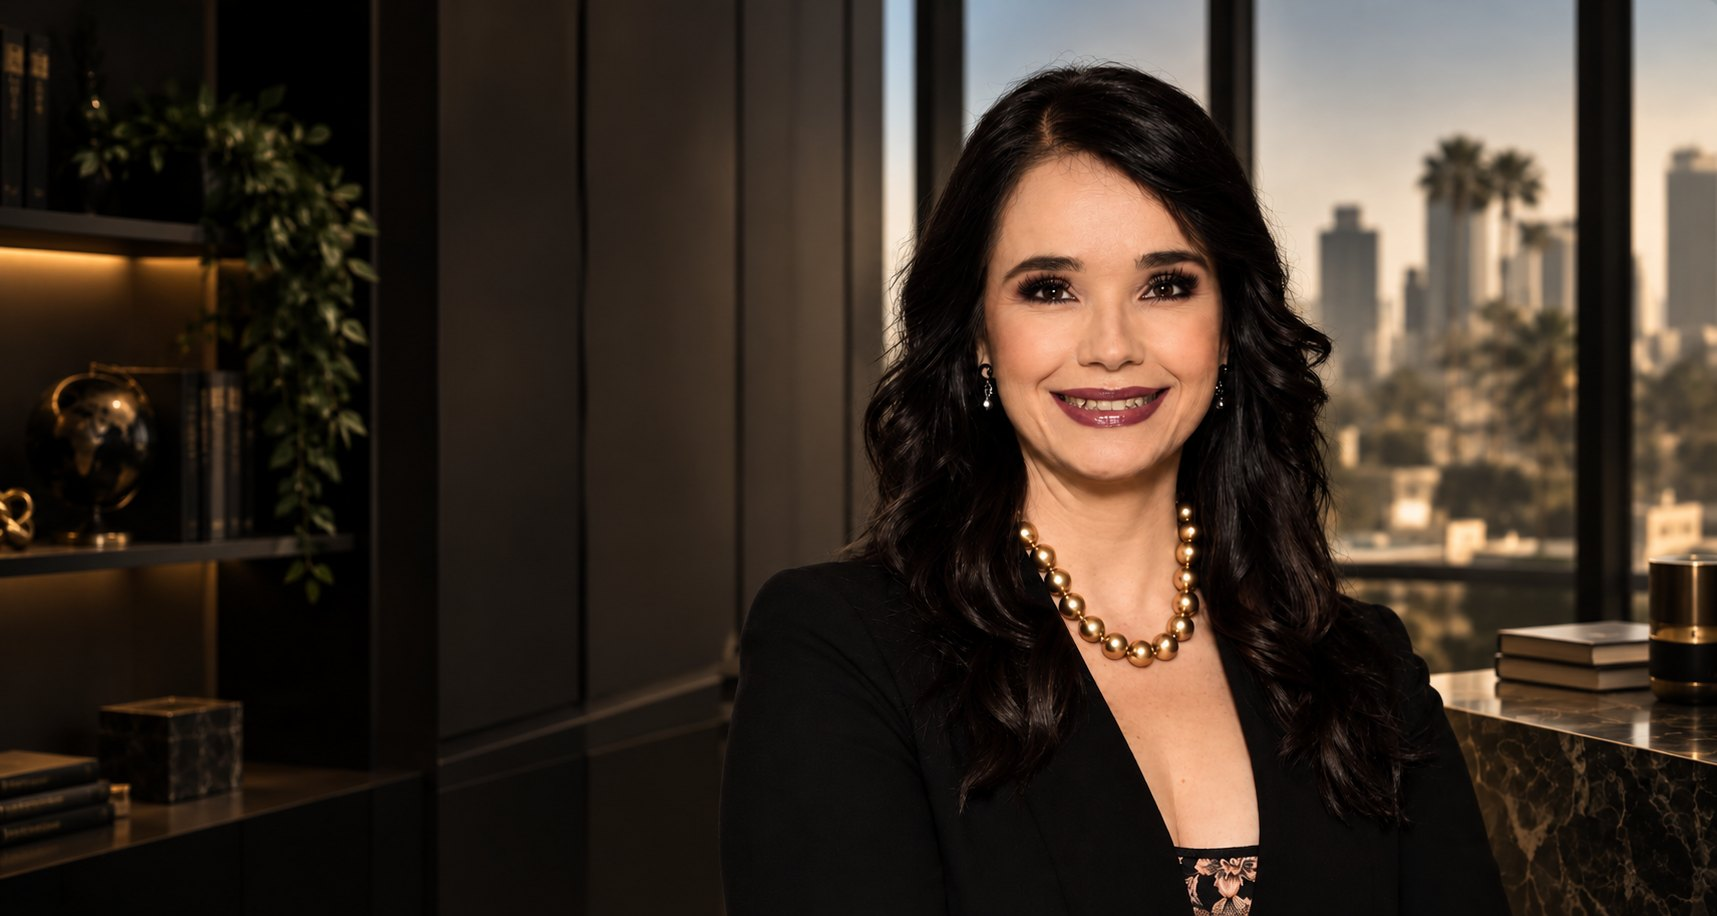
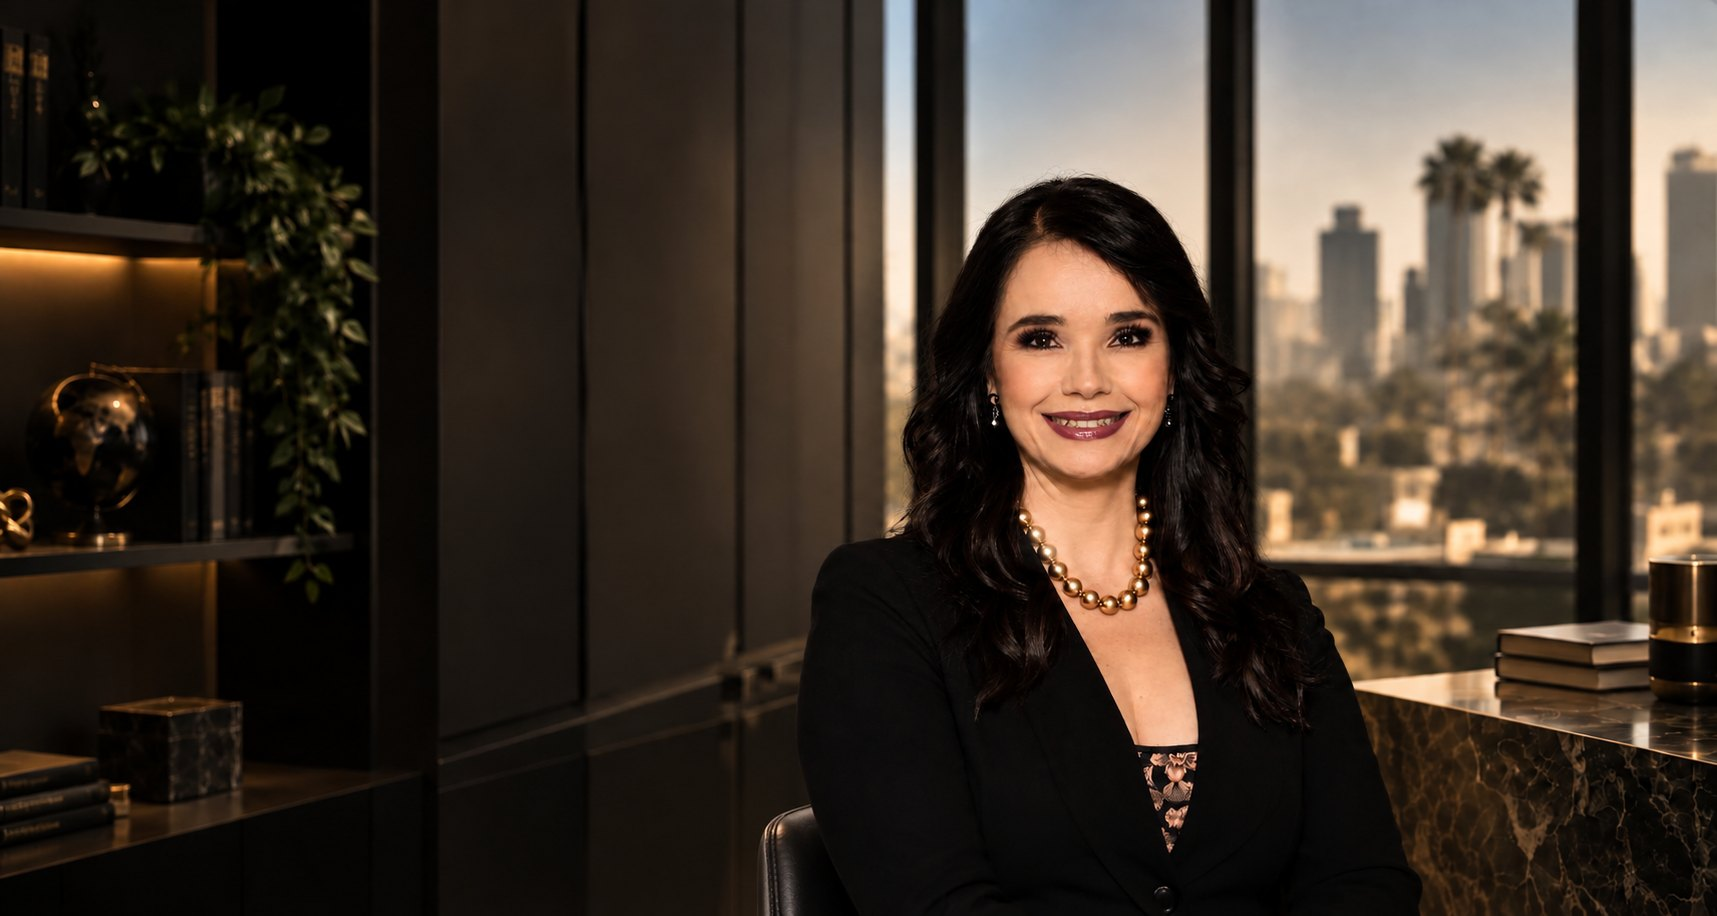
feat(sitegb): nueva foto del hero con Gabriela mas pequena en el encuadre
Misma oficina y misma luz, pero ella queda mas lejos de camara y con
aire sobre la cabeza; el menu ya no le pisa el pelo. Recorte movil
regenerado a partir de la nueva imagen.

Changed region(s): [[0.4321, 0.0611, 0.8952, 1.0], [0.4321, 0.8865, 0.4939, 1.0]]

diff --git a/coming-soon/sitegb/index.html b/coming-soon/sitegb/index.html
@@ -67,10 +67,10 @@
       <!-- HOME -->
       <section class="panel panel-home" id="home" aria-labelledby="home-title">
         <picture class="hero-scene" aria-hidden="true">
-          <source media="(max-width: 960px)" srcset="assets/hero-scene-mobile.webp" type="image/webp">
-          <source media="(max-width: 960px)" srcset="assets/hero-scene-mobile.jpg">
-          <source srcset="assets/hero-scene.webp" type="image/webp">
-          <img src="assets/hero-scene.jpg" alt="" width="1717" height="916">
+          <source media="(max-width: 960px)" srcset="assets/hero-scene-mobile.webp?v=2" type="image/webp">
+          <source media="(max-width: 960px)" srcset="assets/hero-scene-mobile.jpg?v=2">
+          <source srcset="assets/hero-scene.webp?v=2" type="image/webp">
+          <img src="assets/hero-scene.jpg?v=2" alt="" width="1717" height="916">
         </picture>
         <div class="hero-shade" aria-hidden="true"></div>
 
